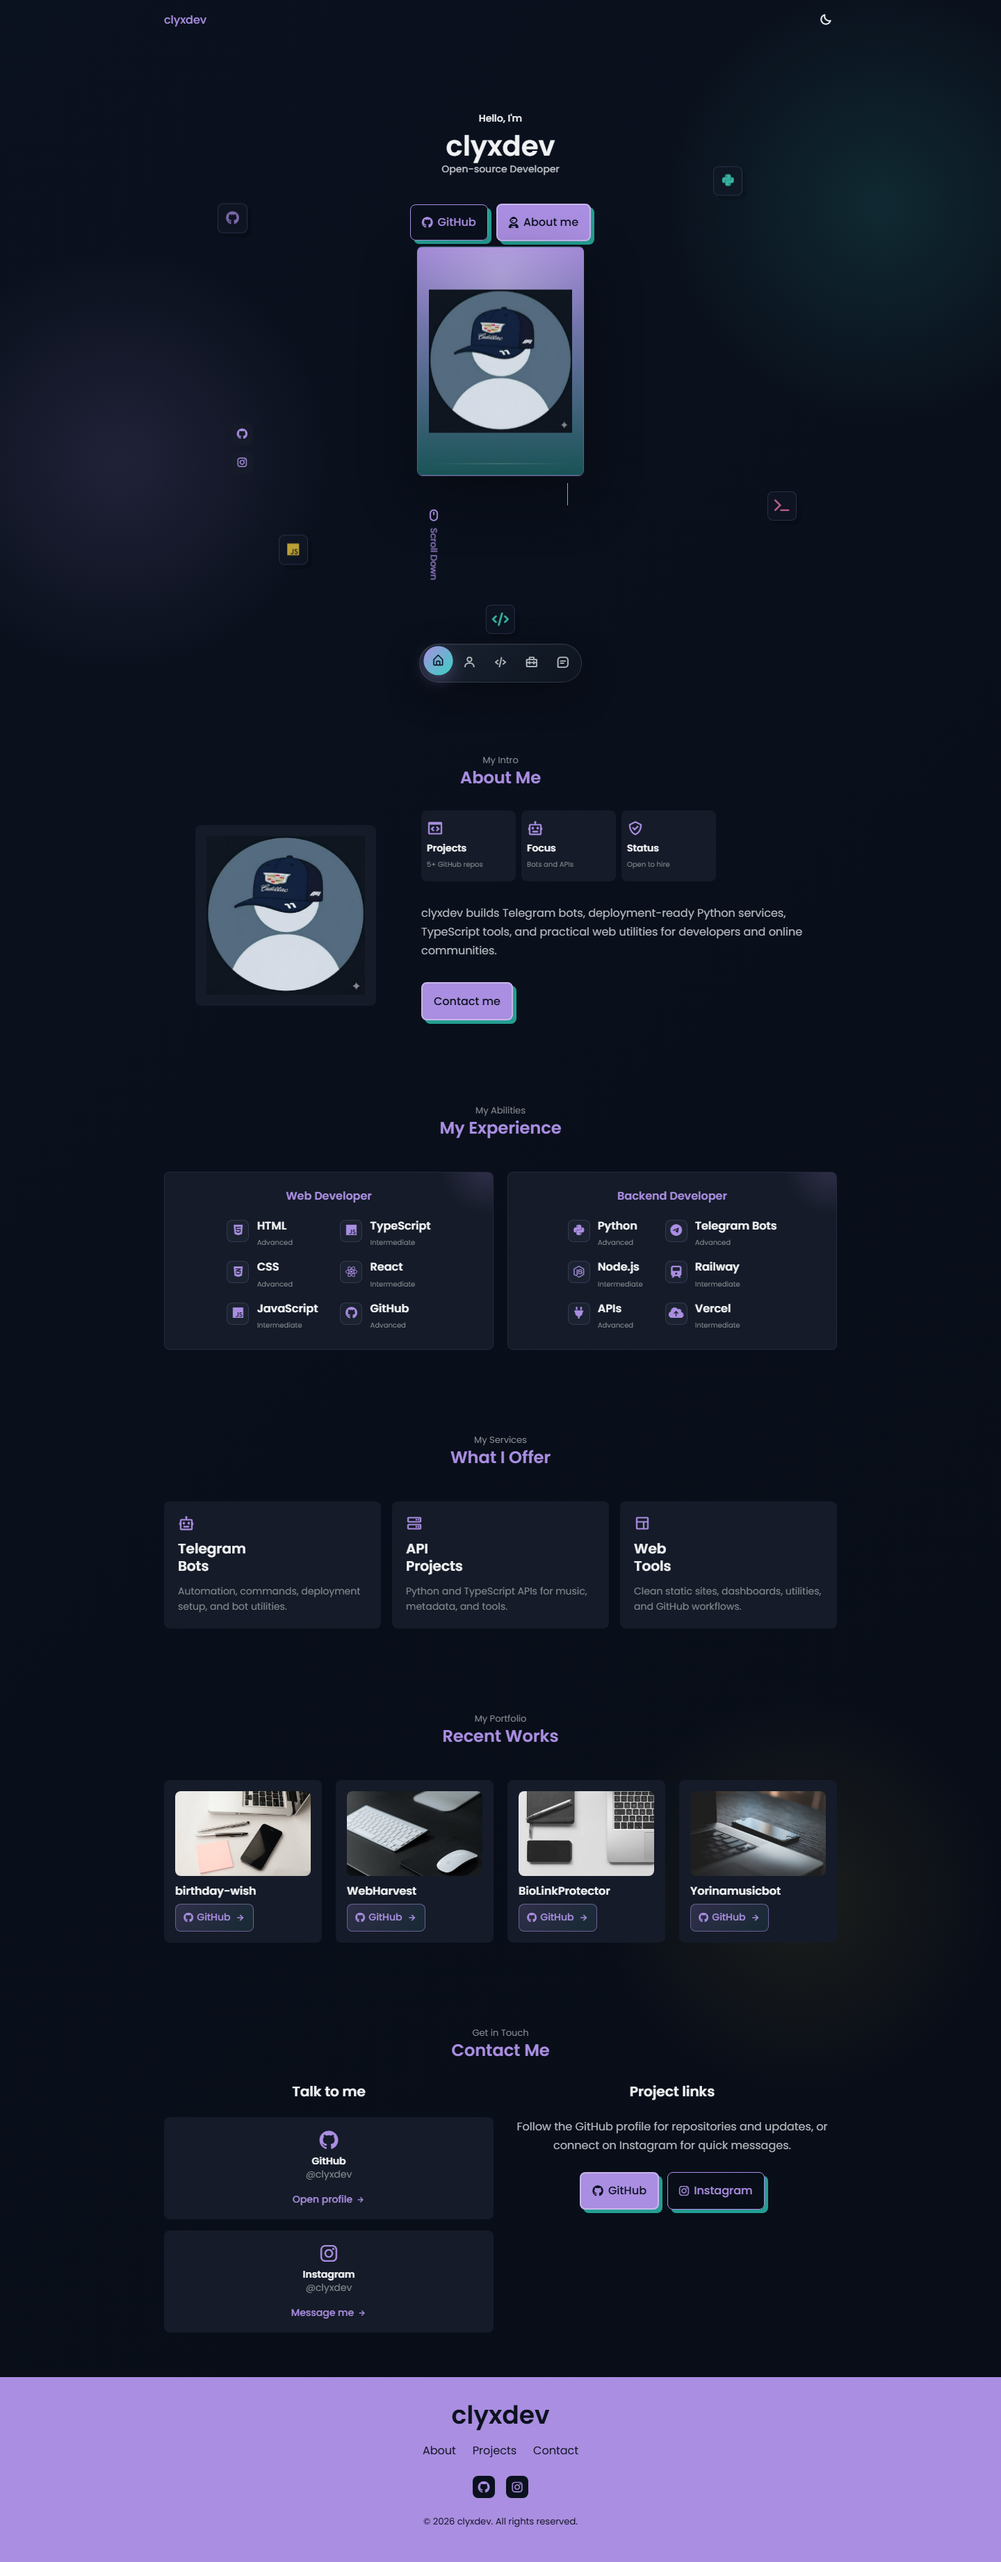
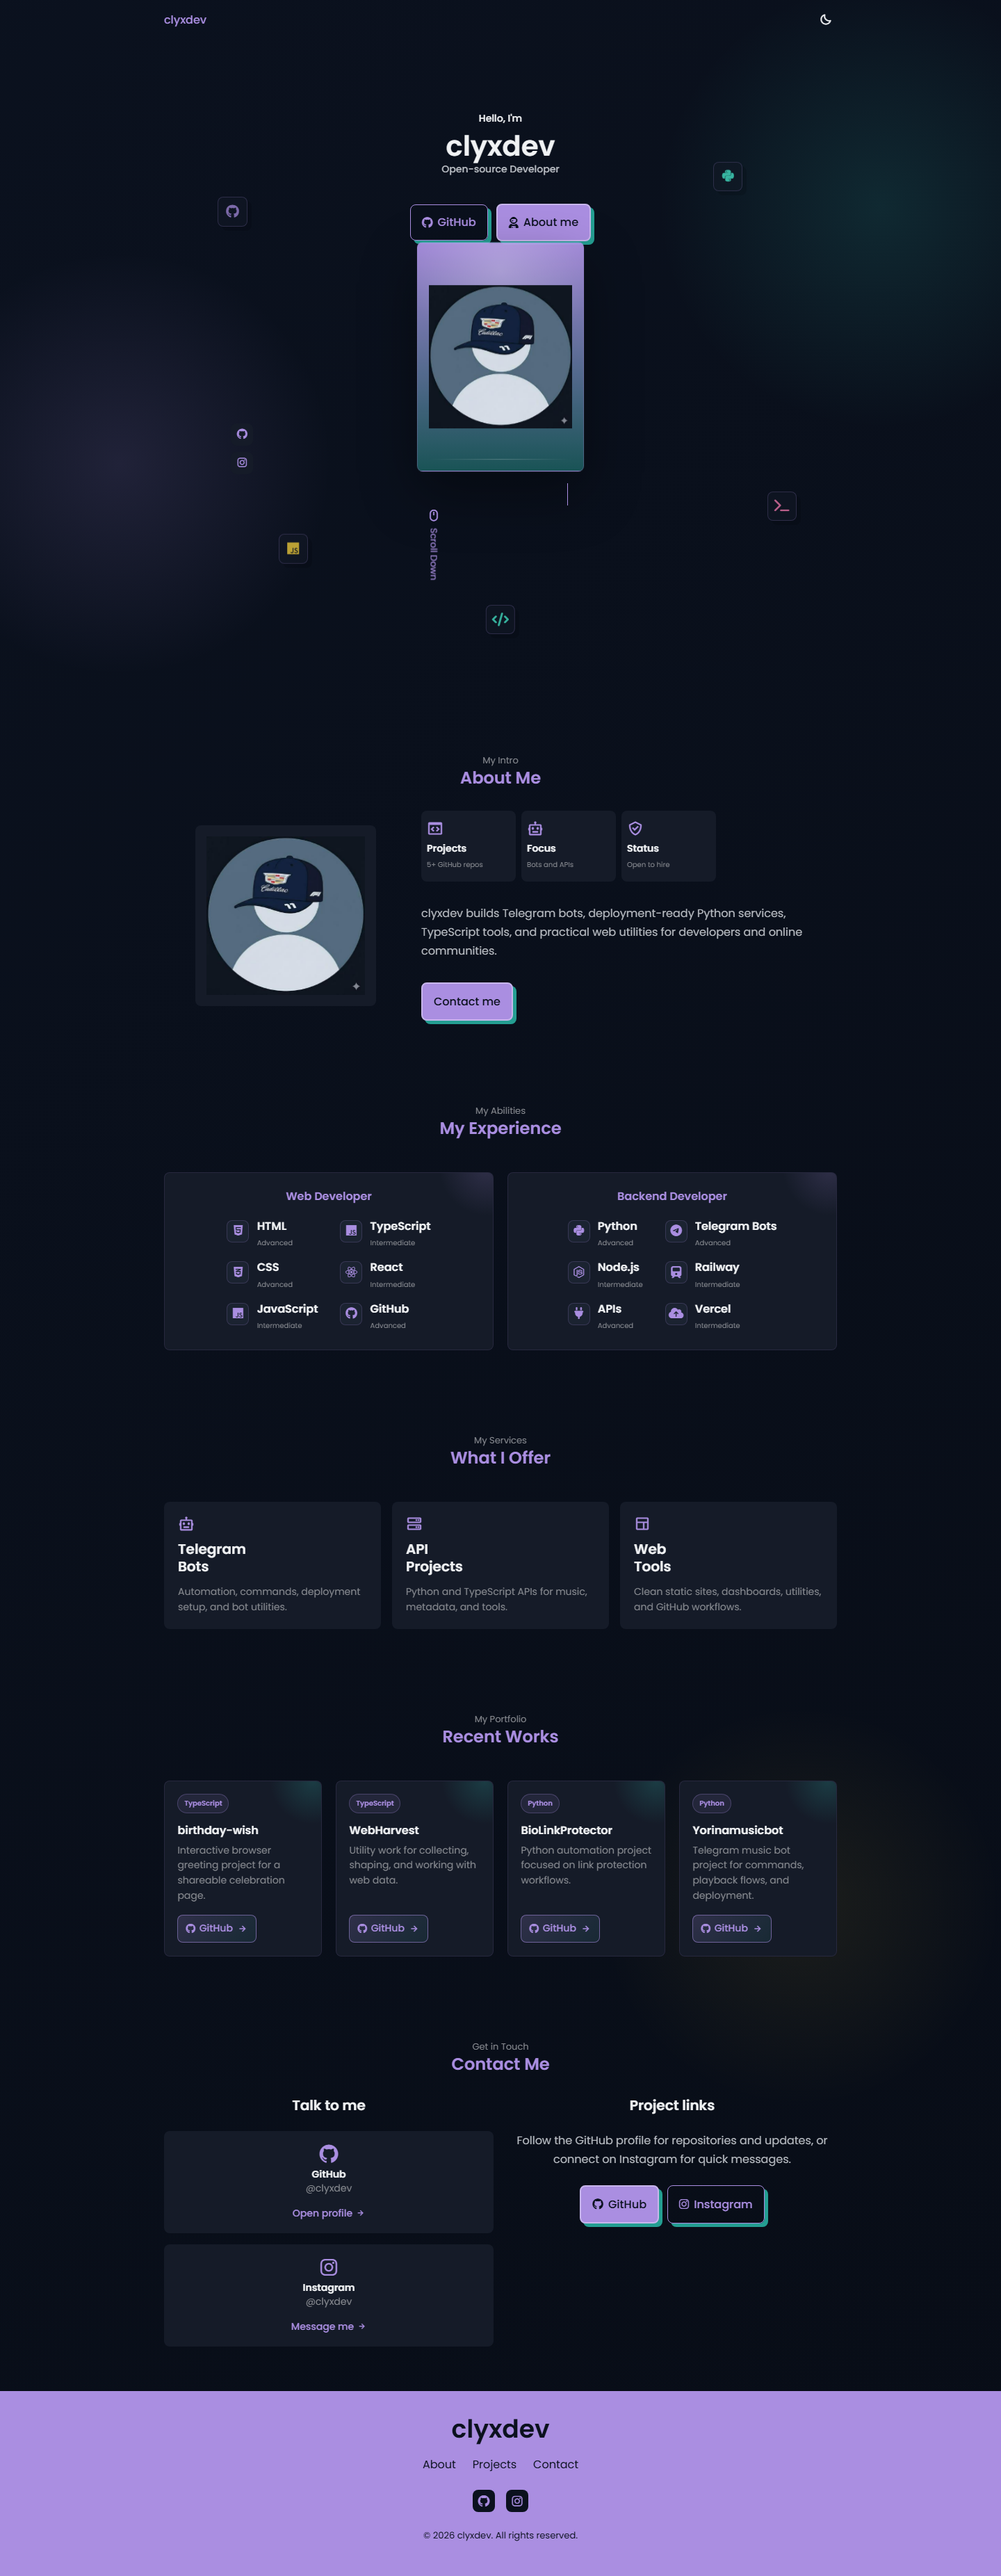
Remove floating nav and project images

diff --git a/index.html b/index.html
@@ -20,36 +20,6 @@
          <nav class="nav container" aria-label="Primary navigation">
             <a href="#home" class="nav__logo">clyxdev</a>
 
-            <div class="nav__menu">
-               <ul class="nav__list">
-                  <li>
-                     <a href="#home" class="nav__link active-link" aria-label="Home">
-                        <i class="bx bx-home-alt"></i>
-                     </a>
-                  </li>
-                  <li>
-                     <a href="#about" class="nav__link" aria-label="About">
-                        <i class="bx bx-user"></i>
-                     </a>
-                  </li>
-                  <li>
-                     <a href="#skills" class="nav__link" aria-label="Skills">
-                        <i class="bx bx-code-alt"></i>
-                     </a>
-                  </li>
-                  <li>
-                     <a href="#work" class="nav__link" aria-label="Work">
-                        <i class="bx bx-briefcase-alt-2"></i>
-                     </a>
-                  </li>
-                  <li>
-                     <a href="#contact" class="nav__link" aria-label="Contact">
-                        <i class="bx bx-message-square-detail"></i>
-                     </a>
-                  </li>
-               </ul>
-            </div>
-
             <button class="theme-toggle" id="theme-toggle" type="button" aria-label="Toggle color theme">
                <i class="bx bx-moon"></i>
             </button>
@@ -285,8 +255,9 @@
 
             <div class="work__container container grid">
                <article class="work__card">
-                  <img src="assets/img/work1.jpg" alt="birthday-wish project preview" class="work__img">
+                  <span class="work__tag">TypeScript</span>
                   <h3 class="work__title">birthday-wish</h3>
+                  <p class="work__description">Interactive browser greeting project for a shareable celebration page.</p>
                   <a href="https://github.com/clyxdev/birthday-wish" class="work__button" target="_blank" rel="noreferrer">
                      <i class="fab fa-github"></i>
                      GitHub <i class="bx bx-right-arrow-alt work__icon"></i>
@@ -294,8 +265,9 @@
                </article>
 
                <article class="work__card">
-                  <img src="assets/img/work2.jpg" alt="WebHarvest project preview" class="work__img">
+                  <span class="work__tag">TypeScript</span>
                   <h3 class="work__title">WebHarvest</h3>
+                  <p class="work__description">Utility work for collecting, shaping, and working with web data.</p>
                   <a href="https://github.com/clyxdev/WebHarvest" class="work__button" target="_blank" rel="noreferrer">
                      <i class="fab fa-github"></i>
                      GitHub <i class="bx bx-right-arrow-alt work__icon"></i>
@@ -303,8 +275,9 @@
                </article>
 
                <article class="work__card">
-                  <img src="assets/img/work3.jpg" alt="BioLinkProtector project preview" class="work__img">
+                  <span class="work__tag">Python</span>
                   <h3 class="work__title">BioLinkProtector</h3>
+                  <p class="work__description">Python automation project focused on link protection workflows.</p>
                   <a href="https://github.com/clyxdev/BioLinkProtector" class="work__button" target="_blank" rel="noreferrer">
                      <i class="fab fa-github"></i>
                      GitHub <i class="bx bx-right-arrow-alt work__icon"></i>
@@ -312,8 +285,9 @@
                </article>
 
                <article class="work__card">
-                  <img src="assets/img/work4.jpg" alt="Yorinamusicbot project preview" class="work__img">
+                  <span class="work__tag">Python</span>
                   <h3 class="work__title">Yorinamusicbot</h3>
+                  <p class="work__description">Telegram music bot project for commands, playback flows, and deployment.</p>
                   <a href="https://github.com/clyxdev/Yorinamusicbot" class="work__button" target="_blank" rel="noreferrer">
                      <i class="fab fa-github"></i>
                      GitHub <i class="bx bx-right-arrow-alt work__icon"></i>

diff --git a/assets/css/styles.css b/assets/css/styles.css
@@ -194,62 +194,6 @@ img {
   font-size: 1.15rem;
 }
 
-.nav__menu {
-  position: fixed;
-  bottom: 1.15rem;
-  left: 0;
-  right: 0;
-  width: max-content;
-  max-width: calc(100% - 2rem);
-  margin-inline: auto;
-  padding: .4rem;
-  border: 1px solid rgba(255, 255, 255, .12);
-  border-radius: 999px;
-  background: linear-gradient(135deg, rgba(30, 39, 54, .82), rgba(16, 23, 34, .72));
-  box-shadow: 0 18px 50px rgba(0, 0, 0, .36), inset 0 1px 0 rgba(255, 255, 255, .06);
-  backdrop-filter: blur(18px);
-  transition: transform .28s, background .28s, border-color .28s;
-}
-
-.light-theme .nav__menu {
-  border-color: rgba(0, 0, 0, .08);
-  background: rgba(255, 255, 255, .82);
-  box-shadow: 0 18px 45px rgba(80, 74, 140, .18), inset 0 1px 0 rgba(255, 255, 255, .8);
-}
-
-.nav__list {
-  display: flex;
-  justify-content: space-between;
-  align-items: center;
-  gap: .25rem;
-}
-
-.nav__link {
-  width: 2.55rem;
-  height: 2.55rem;
-  display: grid;
-  place-items: center;
-  border-radius: 999px;
-  color: var(--text-color);
-  font-size: 1.18rem;
-  transition: transform .25s, background .25s, color .25s, box-shadow .25s;
-}
-
-.nav__link:hover,
-.nav__link.active-link {
-  background: linear-gradient(135deg, var(--first-color), var(--first-color-alt));
-  color: hsl(var(--second-hue), 48%, 8%);
-  box-shadow: 0 8px 22px hsla(var(--first-hue), var(--first-sat), var(--first-lig), .3);
-}
-
-.nav__link:hover {
-  transform: translateY(-2px);
-}
-
-.nav__link.active-link {
-  transform: translateY(-3px) scale(1.03);
-}
-
 .home__container {
   position: relative;
   padding-top: 2rem;
@@ -663,26 +607,63 @@ img {
 }
 
 .work__card {
-  padding: 1rem;
+  position: relative;
+  min-height: 13rem;
+  display: flex;
+  flex-direction: column;
+  overflow: hidden;
+  border: 1px solid hsla(var(--first-hue), var(--first-sat), var(--first-lig), .12);
+  padding: 1.15rem;
 }
 
-.work__img {
-  width: 100%;
-  aspect-ratio: 16 / 10;
-  border-radius: 8px;
-  object-fit: cover;
-  margin-bottom: .75rem;
+.work__card::before {
+  content: "";
+  position: absolute;
+  width: 8rem;
+  height: 8rem;
+  top: -4rem;
+  right: -3.25rem;
+  border-radius: 50%;
+  background: radial-gradient(circle, hsla(174, 63%, 52%, .18), transparent 68%);
+  pointer-events: none;
+}
+
+.work__tag {
+  position: relative;
+  width: max-content;
+  display: inline-flex;
+  align-items: center;
+  border: 1px solid hsla(var(--first-hue), var(--first-sat), var(--first-lig), .28);
+  border-radius: 999px;
+  background: hsla(var(--first-hue), var(--first-sat), var(--first-lig), .1);
+  color: var(--first-color);
+  font-size: var(--tiny-font-size);
+  font-weight: var(--font-semibold);
+  padding: .32rem .55rem;
+  margin-bottom: .9rem;
 }
 
 .work__title {
+  position: relative;
   font-size: var(--normal-font-size);
   margin-bottom: .5rem;
 }
 
+.work__description {
+  position: relative;
+  color: var(--text-color-light);
+  font-size: var(--small-font-size);
+  line-height: 1.55;
+  margin-bottom: 1rem;
+}
+
 .work__button {
+  position: relative;
   display: inline-flex;
+  width: max-content;
   align-items: center;
   column-gap: .35rem;
+  margin-top: auto;
   border: 1px solid hsla(var(--first-hue), var(--first-sat), var(--first-lig), .55);
   border-radius: 8px;
   background: linear-gradient(135deg, hsla(var(--first-hue), var(--first-sat), var(--first-lig), .18), hsla(174, 63%, 52%, .08));
@@ -782,7 +763,7 @@ img {
 
 .footer {
   background: var(--first-color);
-  padding: 2rem 0 6rem;
+  padding: 2rem 0 2.5rem;
 }
 
 .footer__container {
@@ -950,10 +931,6 @@ img {
     margin-inline: .75rem;
   }
 
-  .nav__menu {
-    max-width: calc(100% - 1rem);
-  }
-
   .home__buttons {
     flex-direction: column;
   }
@@ -1006,10 +983,6 @@ img {
 }
 
 @media screen and (min-width: 576px) {
-  .nav__menu {
-    width: max-content;
-  }
-
   .about__info {
     grid-template-columns: repeat(3, 8.5rem);
     justify-content: center;

diff --git a/assets/js/main.js b/assets/js/main.js
@@ -1,8 +1,6 @@
 const header = document.getElementById("header");
 const themeToggle = document.getElementById("theme-toggle");
 const footerYear = document.getElementById("footer-year");
-const sections = document.querySelectorAll("section[id]");
-const navLinks = document.querySelectorAll(".nav__link");
 const revealTargets = document.querySelectorAll(
   ".section__subtitle, .section__title, .about__image, .about__box, .about__description, .about__data .button, .skills__content, .services__card, .work__card, .contact__content, .footer__title, .footer__list, .footer__social, .footer__copy"
 );
@@ -24,29 +22,7 @@ const updateHeader = () => {
   header.classList.toggle("scroll-header", window.scrollY >= 50);
 };
 
-const updateActiveLink = () => {
-  const scrollY = window.scrollY;
-
-  sections.forEach((section) => {
-    const sectionHeight = section.offsetHeight;
-    const sectionTop = section.offsetTop - 58;
-    const sectionId = section.getAttribute("id");
-    const link = document.querySelector(`.nav__link[href="#${sectionId}"]`);
-
-    if (!link) return;
-
-    if (scrollY > sectionTop && scrollY <= sectionTop + sectionHeight) {
-      link.classList.add("active-link");
-    } else {
-      link.classList.remove("active-link");
-    }
-  });
-};
-
-window.addEventListener("scroll", () => {
-  updateHeader();
-  updateActiveLink();
-});
+window.addEventListener("scroll", updateHeader);
 
 if (themeToggle) {
   themeToggle.addEventListener("click", () => {
@@ -88,4 +64,3 @@ const revealObserver = new IntersectionObserver(
 revealTargets.forEach((element) => revealObserver.observe(element));
 
 updateHeader();
-updateActiveLink();
